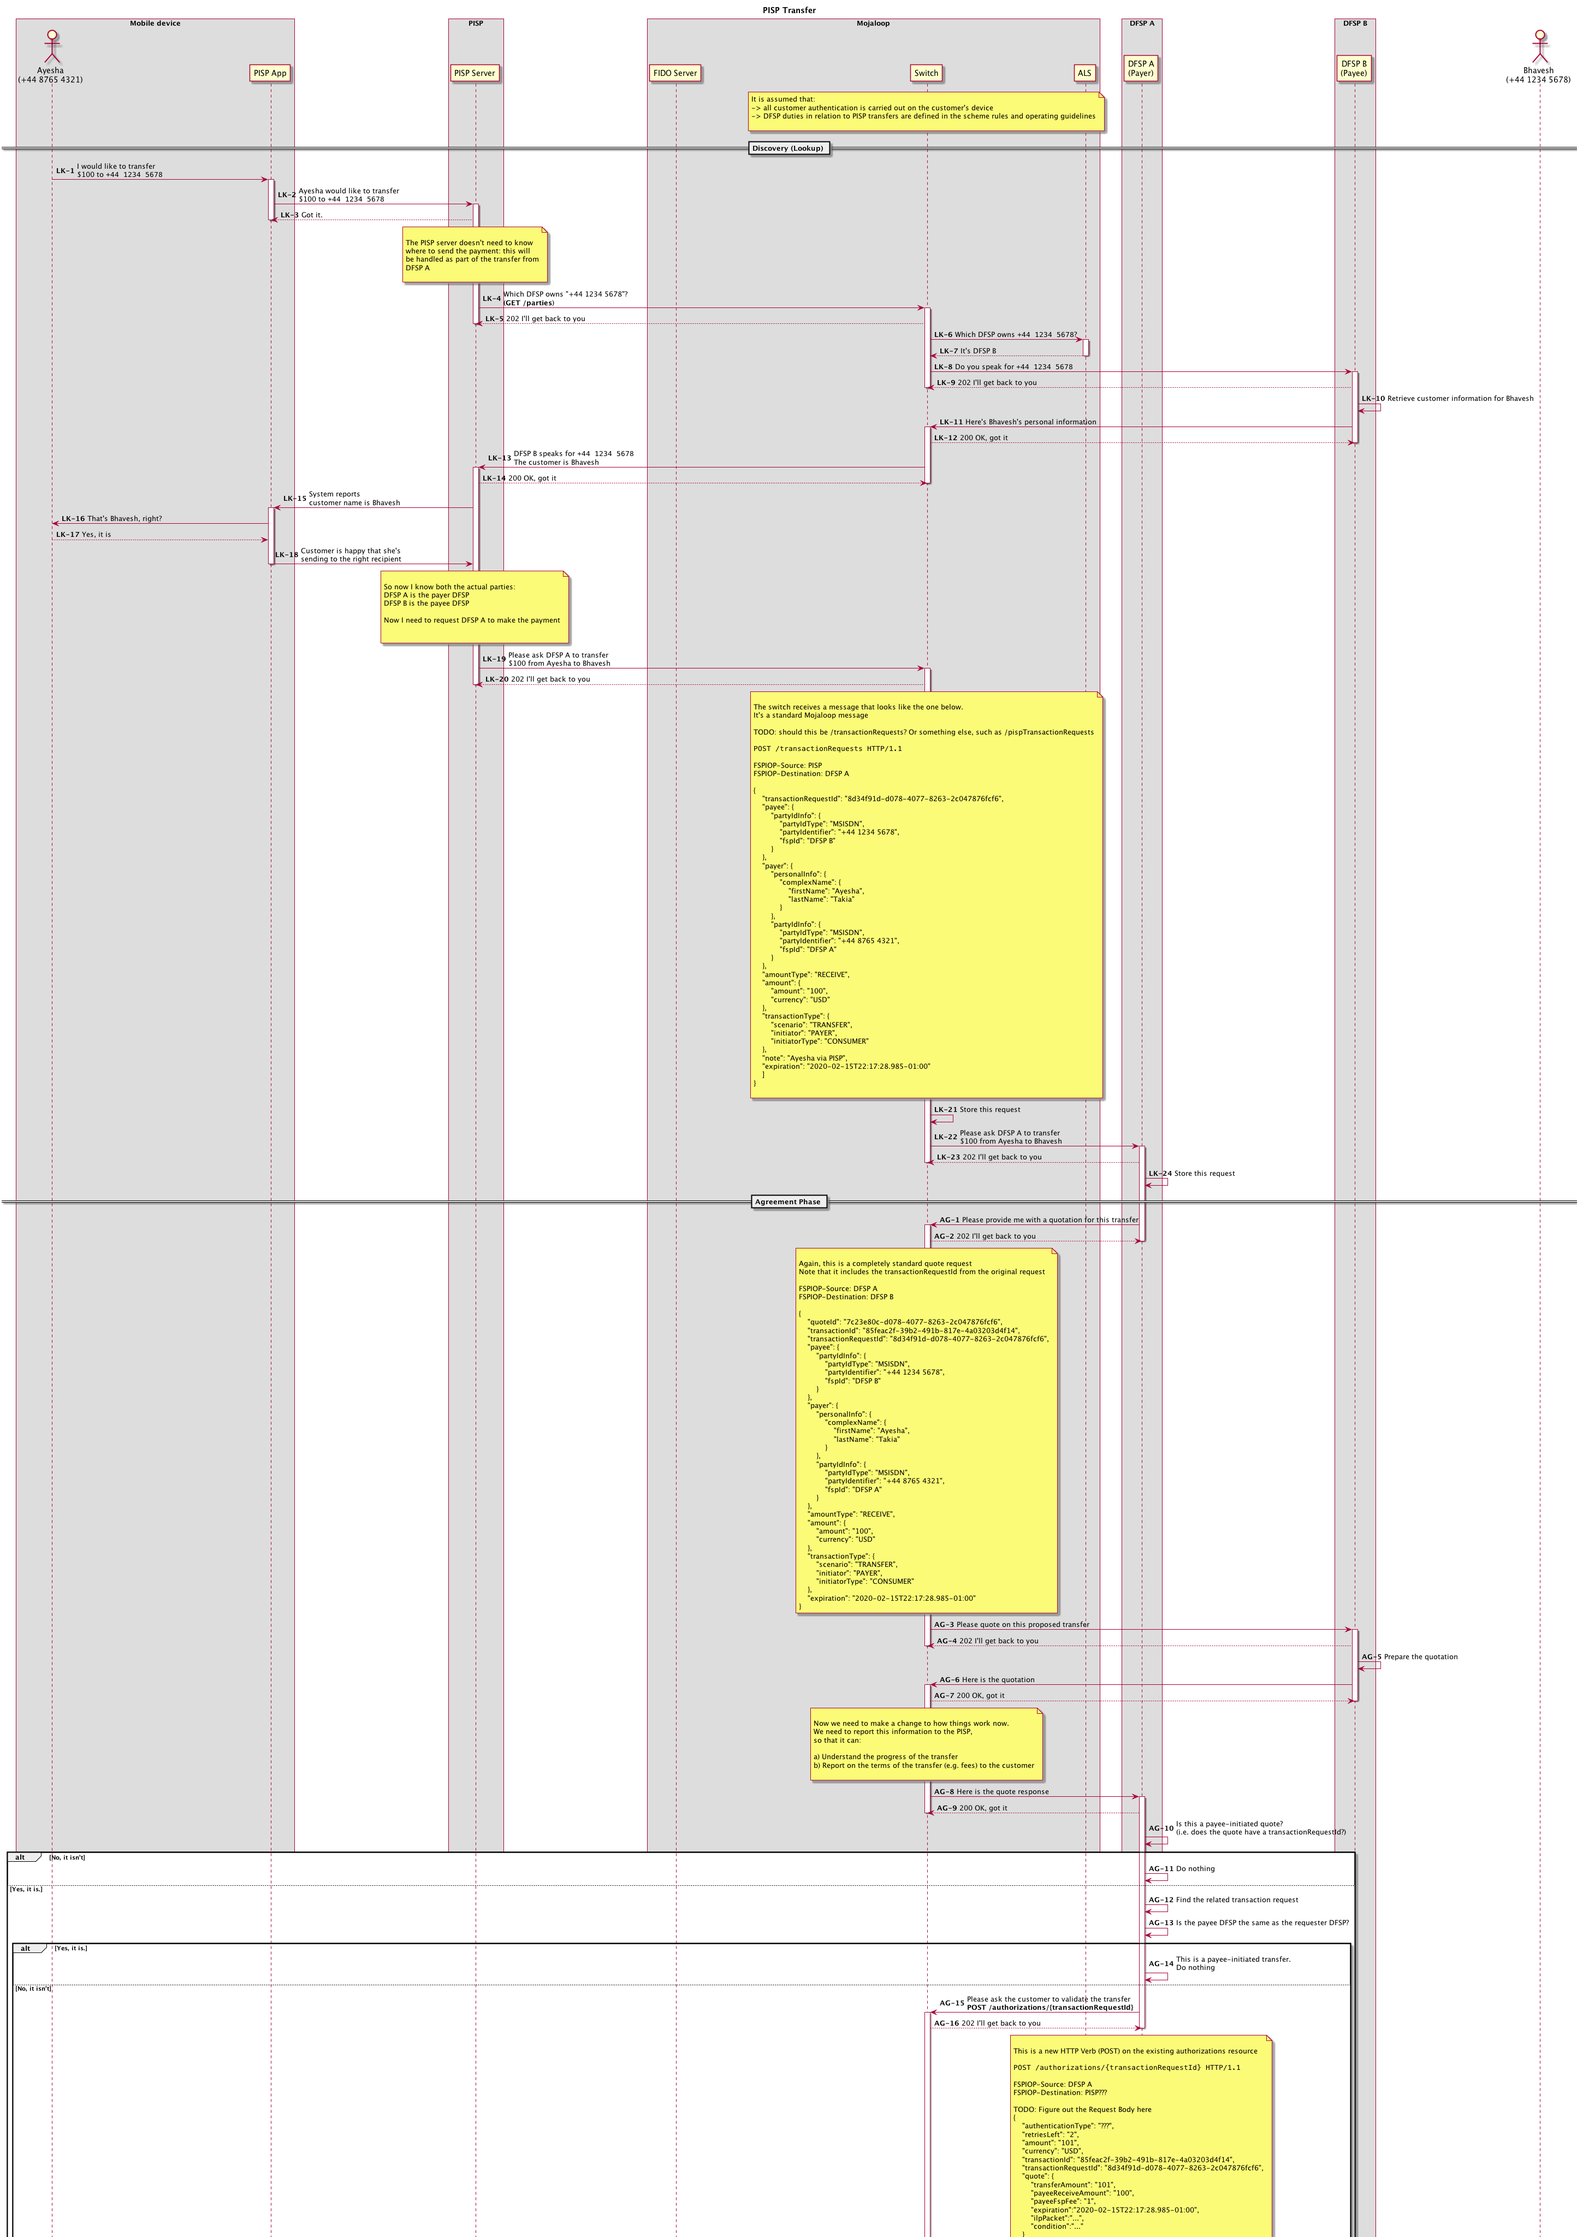
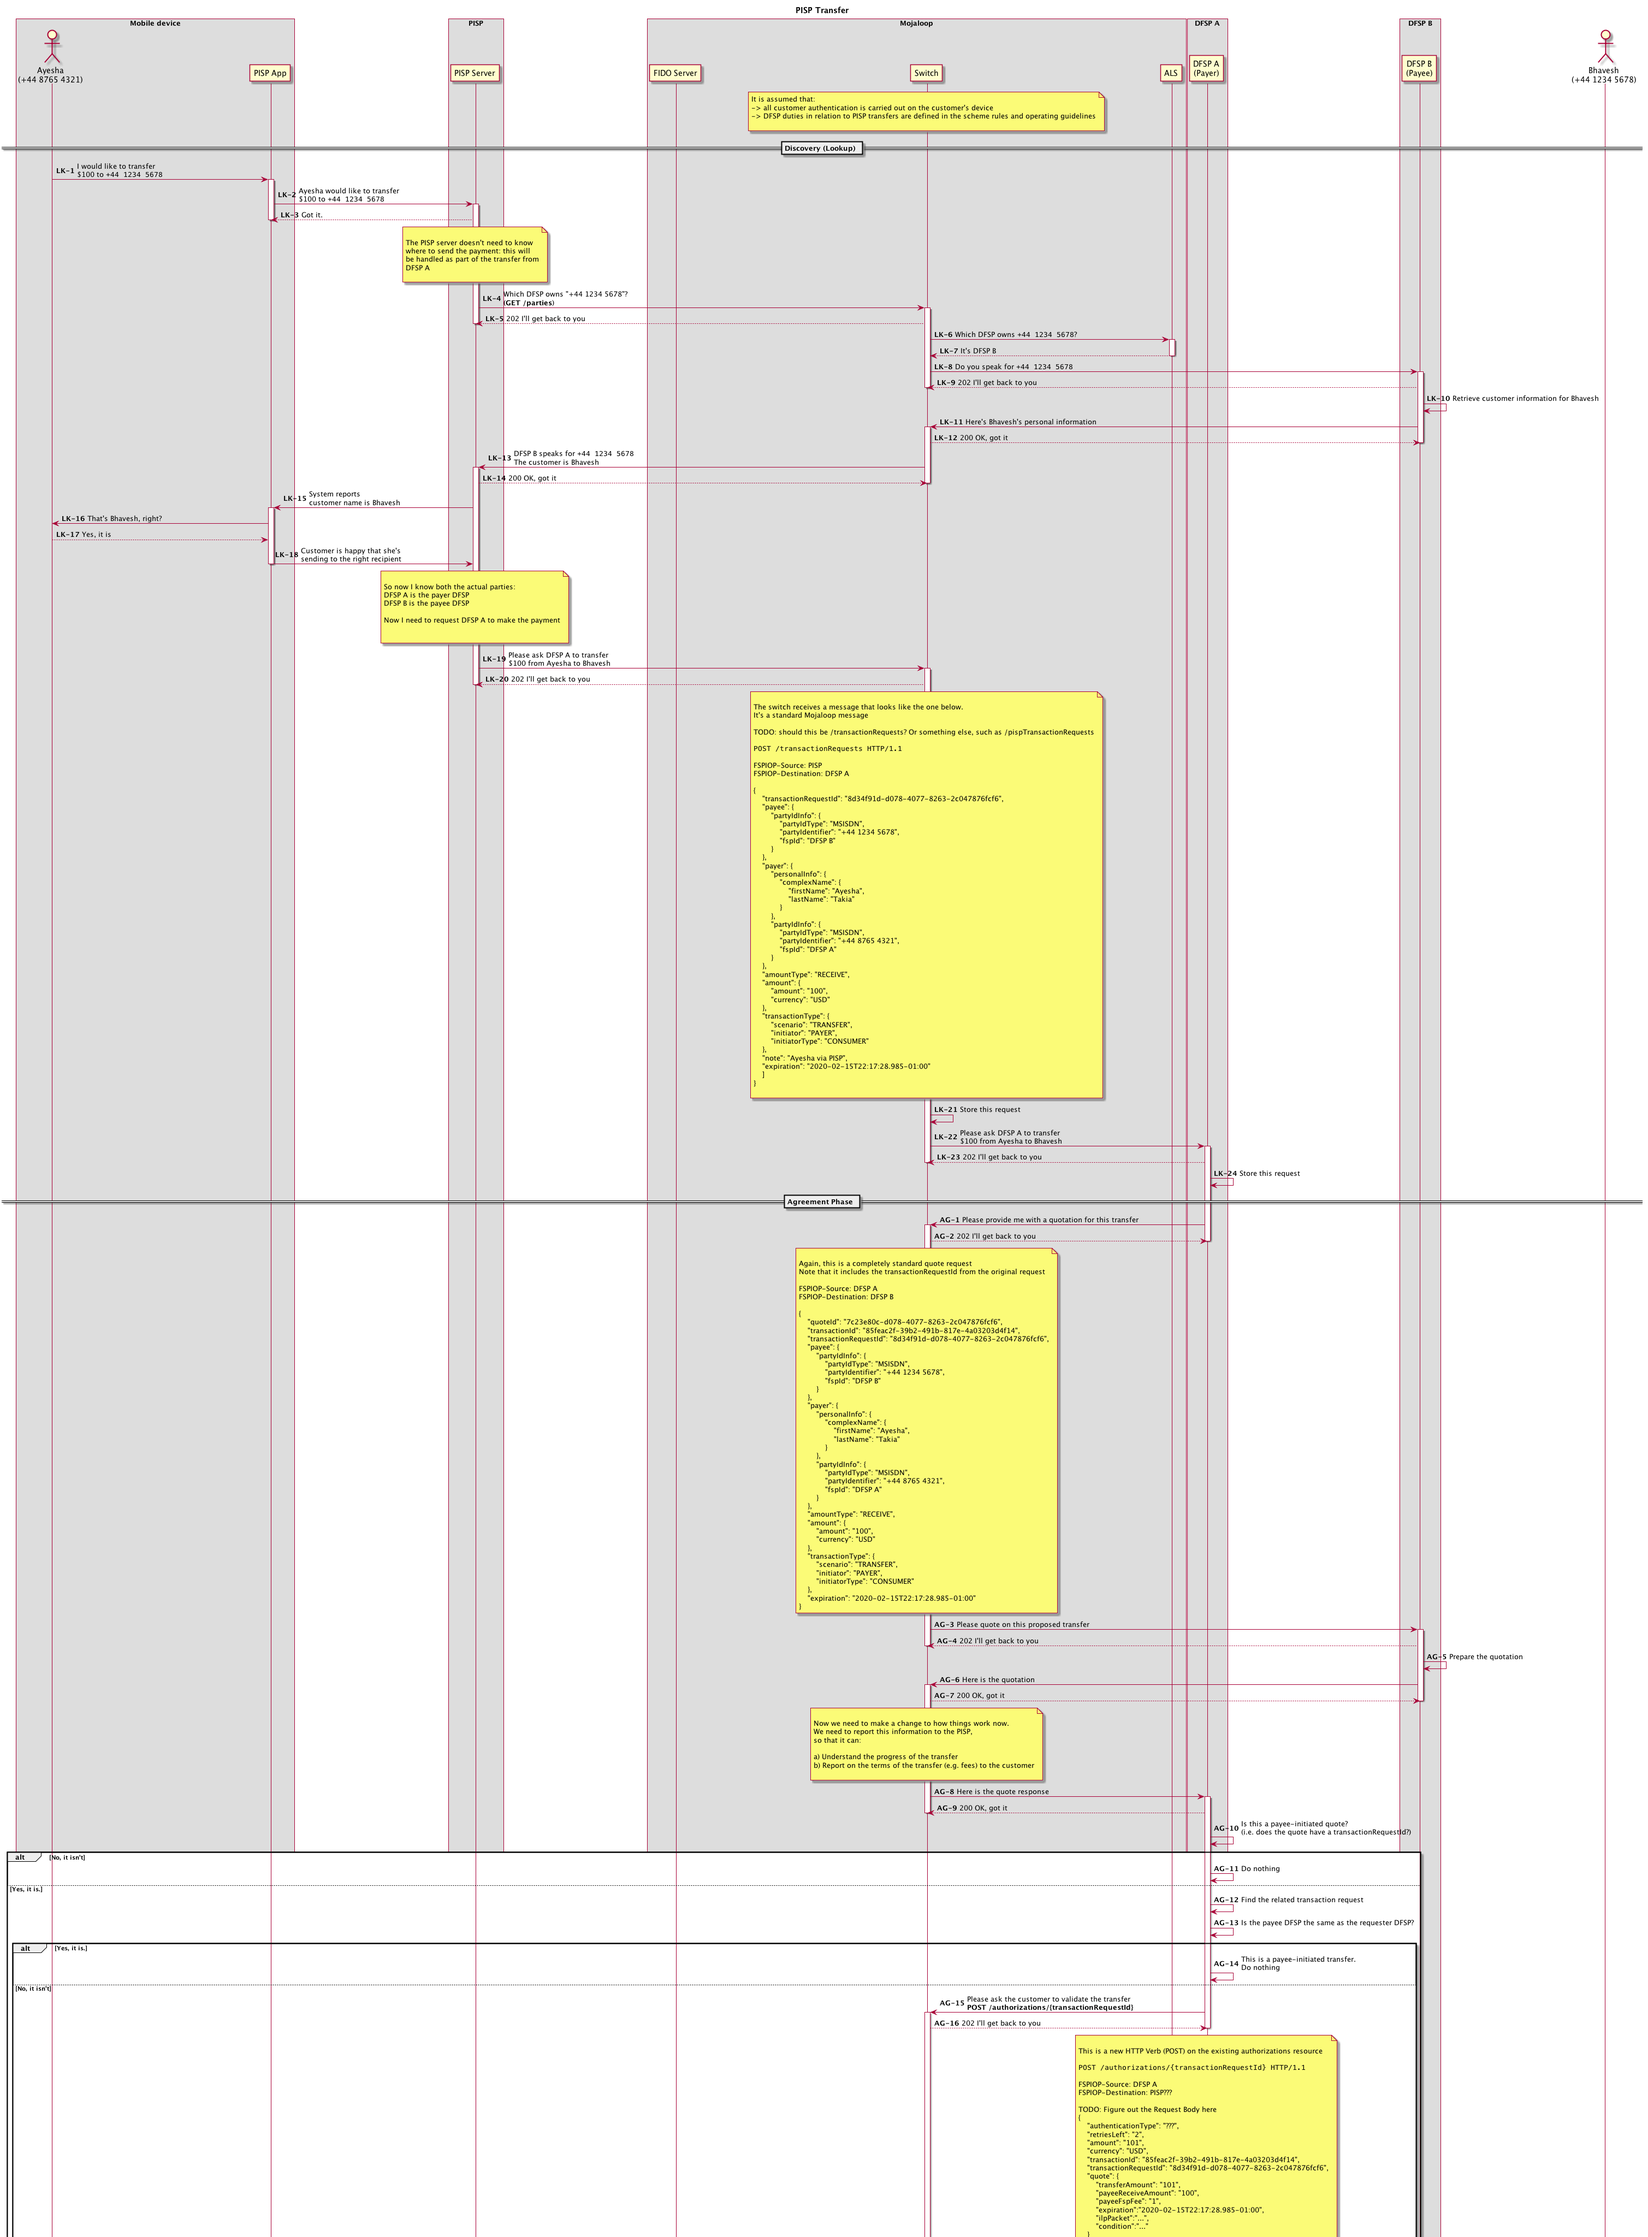
update sequence diagrams, transfer section

diff --git a/docs/README.md b/docs/README.md
@@ -58,24 +58,22 @@ Supporting documentation for the PISP implementation.
 For the full transfer flows, see the [E2E PISP Transfer Flows](./out/transfer/complete/PISP%20transfer.png).
 
 Edit the transfer flow `.puml` files here: [PISP Transfer Flow UML](./transfer)
-- [`./transfer/complete.puml`](./transfer/complete.puml) Combines the following diagrams into one.
-- [`./transfer/1-discovery.puml`](./transfer/1-discovery.puml)
-- [`./transfer/2-agreement.puml`](./transfer/2-agreement.puml)
-- [`./transfer/3-transfer.puml`](./transfer/3-transfer.puml)
+
+[`./transfer/complete.puml`](./transfer/complete.puml) Combines the following diagrams into one.
 
 
 #### 1. Discovery
+>_[PUML source: `./transfer/1-discovery.puml`](./transfer/1-discovery.puml)_
 ![discovery](./out/transfer/1-discovery/PISP%20Transfer.png)
 
 #### 2. Agreement
+>_[PUML source: `./transfer/2-agreement.puml`](./transfer/2-agreement.puml)_
 
 ![agreement](./out/transfer/2-agreement/PISP%20Transfer.png)
 
 #### 3. Transfer
-
-![transfer](./out/transfer/3-transfer/PISP%20Transfer.png)
-
-> Note: I don't think `TR-1` and `TR-2` are valid any longer as we will be relying on the switch to initiate the `/thirdPartyRequest/transfer/{ID}` callback to the PISP to inform the PISP on the outcome of a transfer.
+>_[PUML source: `./transfer/3-transfer.puml`](./transfer/3-transfer.puml)_
+![tranfer](./out/transfer/3-transfer/PISP%20Transfer.png)
 
 
 #### Transfer - Endpoints 
@@ -101,8 +99,7 @@ Edit the transfer flow `.puml` files here: [PISP Transfer Flow UML](./transfer)
 | `AG-30` | `POST`            | `/performVerification`*3                  | SWITCH | FIDO   |
 | `AG-32` | `PUT`             | `/verificationResult/{ID}`*4              | FIDO   | SWITCH |
 | `AG-34` | `PUT`             | `/authorizations/{ID}`                    | SWITCH | DFSPA  |
-| `TR-2`  | `PUT`             | `/transfers`                              | DFSPA  | SWITCH |
-| `TR-4`  | `PUT`             | `/thirdPartyRequest/transfer/{ID}`*5      | SWITCH | PISP   |
+| `TR-3`  | `PUT`             | `/thirdPartyRequest/transfer/{ID}`*5      | SWITCH | PISP   |
 
 
 > 0. As discussed, for now we will implement this as the existing `/transactionRequest`
